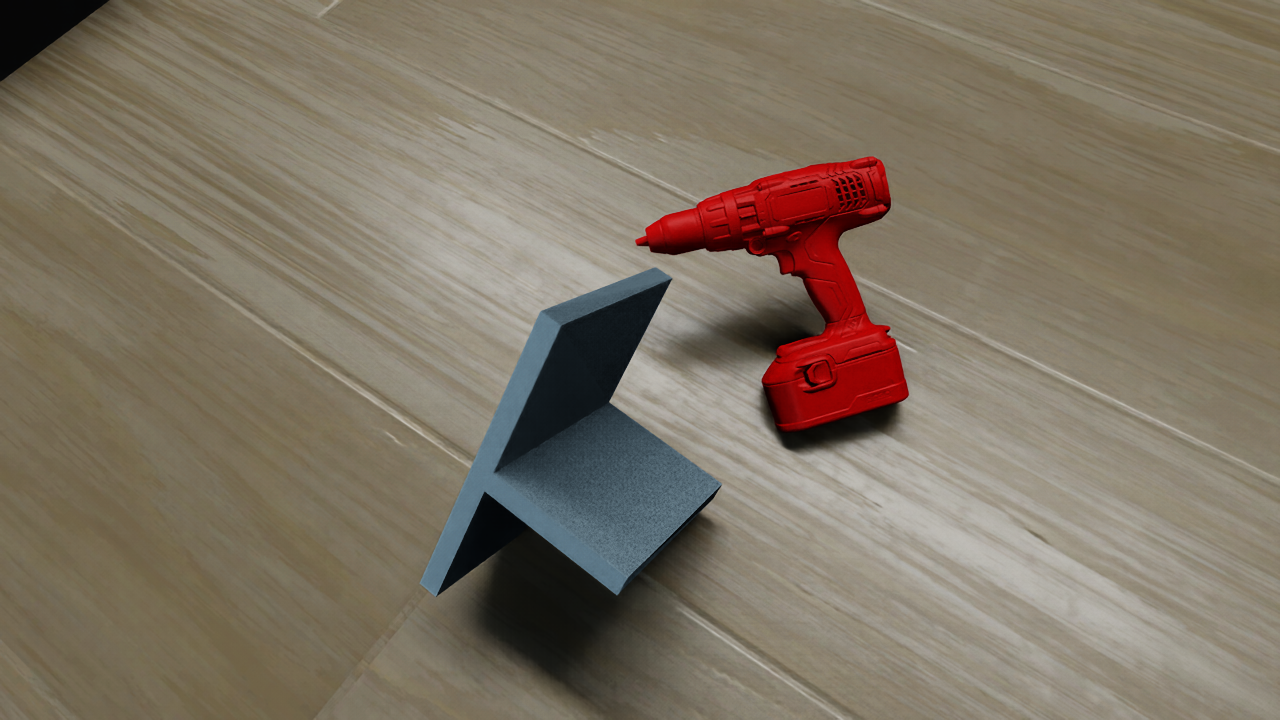
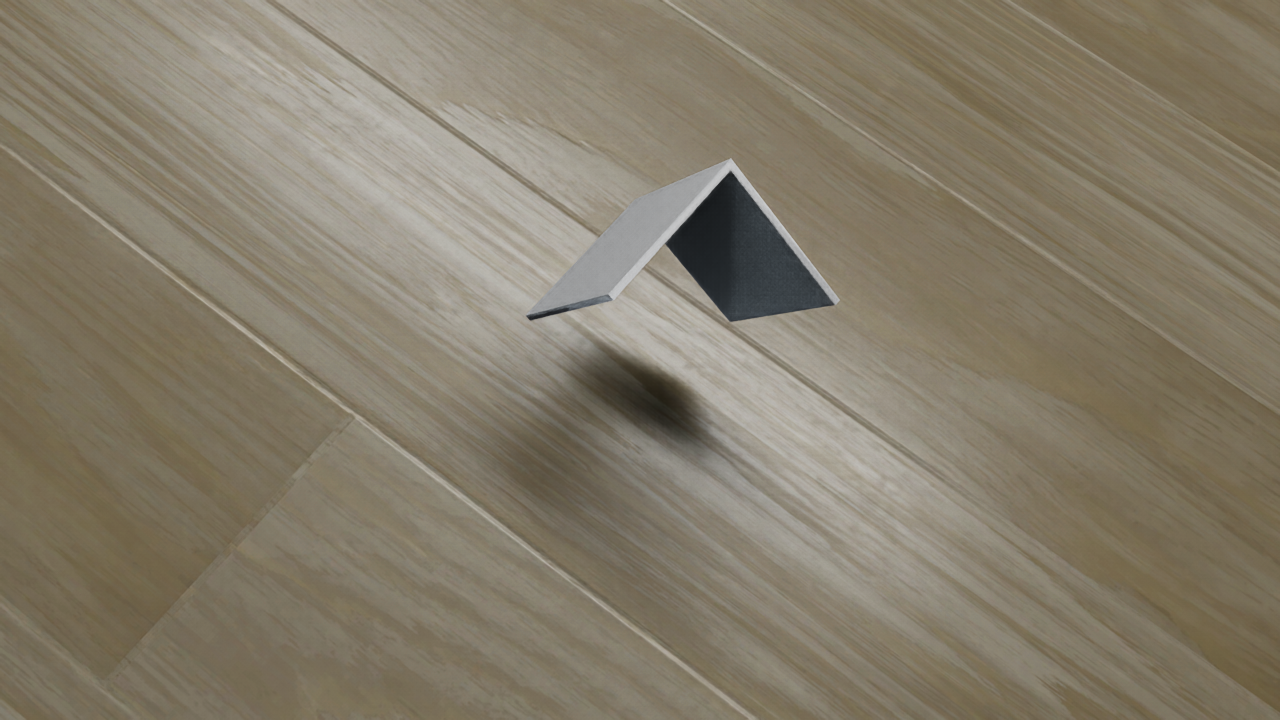
asd

diff --git a/SAM-6D/server.py b/SAM-6D/server.py
@@ -12,7 +12,7 @@ OUTPUT_DIR = os.path.join(BASE_DIR, "Data", "Output")
 
 # CAD model is fixed per deployed object (client only sends rgb/depth/camera).
 # Override with the CAD_PATH env var if needed.
-CAD_PATH = os.environ.get("CAD_PATH", os.path.join(DATA_DIR, "powerdrill.ply"))
+CAD_PATH = os.environ.get("CAD_PATH", os.path.join(DATA_DIR, "plate.ply"))
 
 os.makedirs(DATA_DIR, exist_ok=True)
 os.makedirs(OUTPUT_DIR, exist_ok=True)